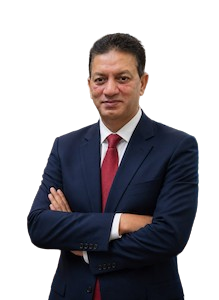
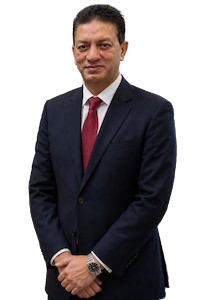
fix CEO and news image

diff --git a/packages/cms-core/src/blocks/news-list/component.tsx b/packages/cms-core/src/blocks/news-list/component.tsx
@@ -135,13 +135,15 @@ function CarouselCardItem({ item }: { item: NewsItem }) {
       className="flex flex-col bg-transparent group text-left w-full min-w-full sm:min-w-[340px] md:min-w-[380px] sm:flex-1 snap-center snap-always px-2 sm:px-0"
     >
       <Link href={withLocale(locale, item.href)} className="block space-y-4 focus-visible:outline-none">
-        <div className="relative aspect-[16/10] max-w-[90%] mx-auto w-full rounded-2xl overflow-hidden bg-white/90 border border-white/20 shadow-md h-[300px] sm:h-[400px] md:h-[450px]">
+        
+        {/* Clean Image */}
+        <div className="relative w-full max-w-[90%] mx-auto rounded-2xl overflow-hidden shadow-md aspect-square h-[300px] sm:h-[400px] md:h-[450px]">
           {item.thumbnail ? (
             <Image
               src={item.thumbnail}
               alt={item.headline}
               fill
-              className="object-cover object-center transition-transform duration-300 group-hover:scale-103"
+              className="object-contain object-center transition-all duration-500 ease-out group-hover:scale-105"
               sizes="(max-width: 768px) 100vw, 33vw"
             />
           ) : (